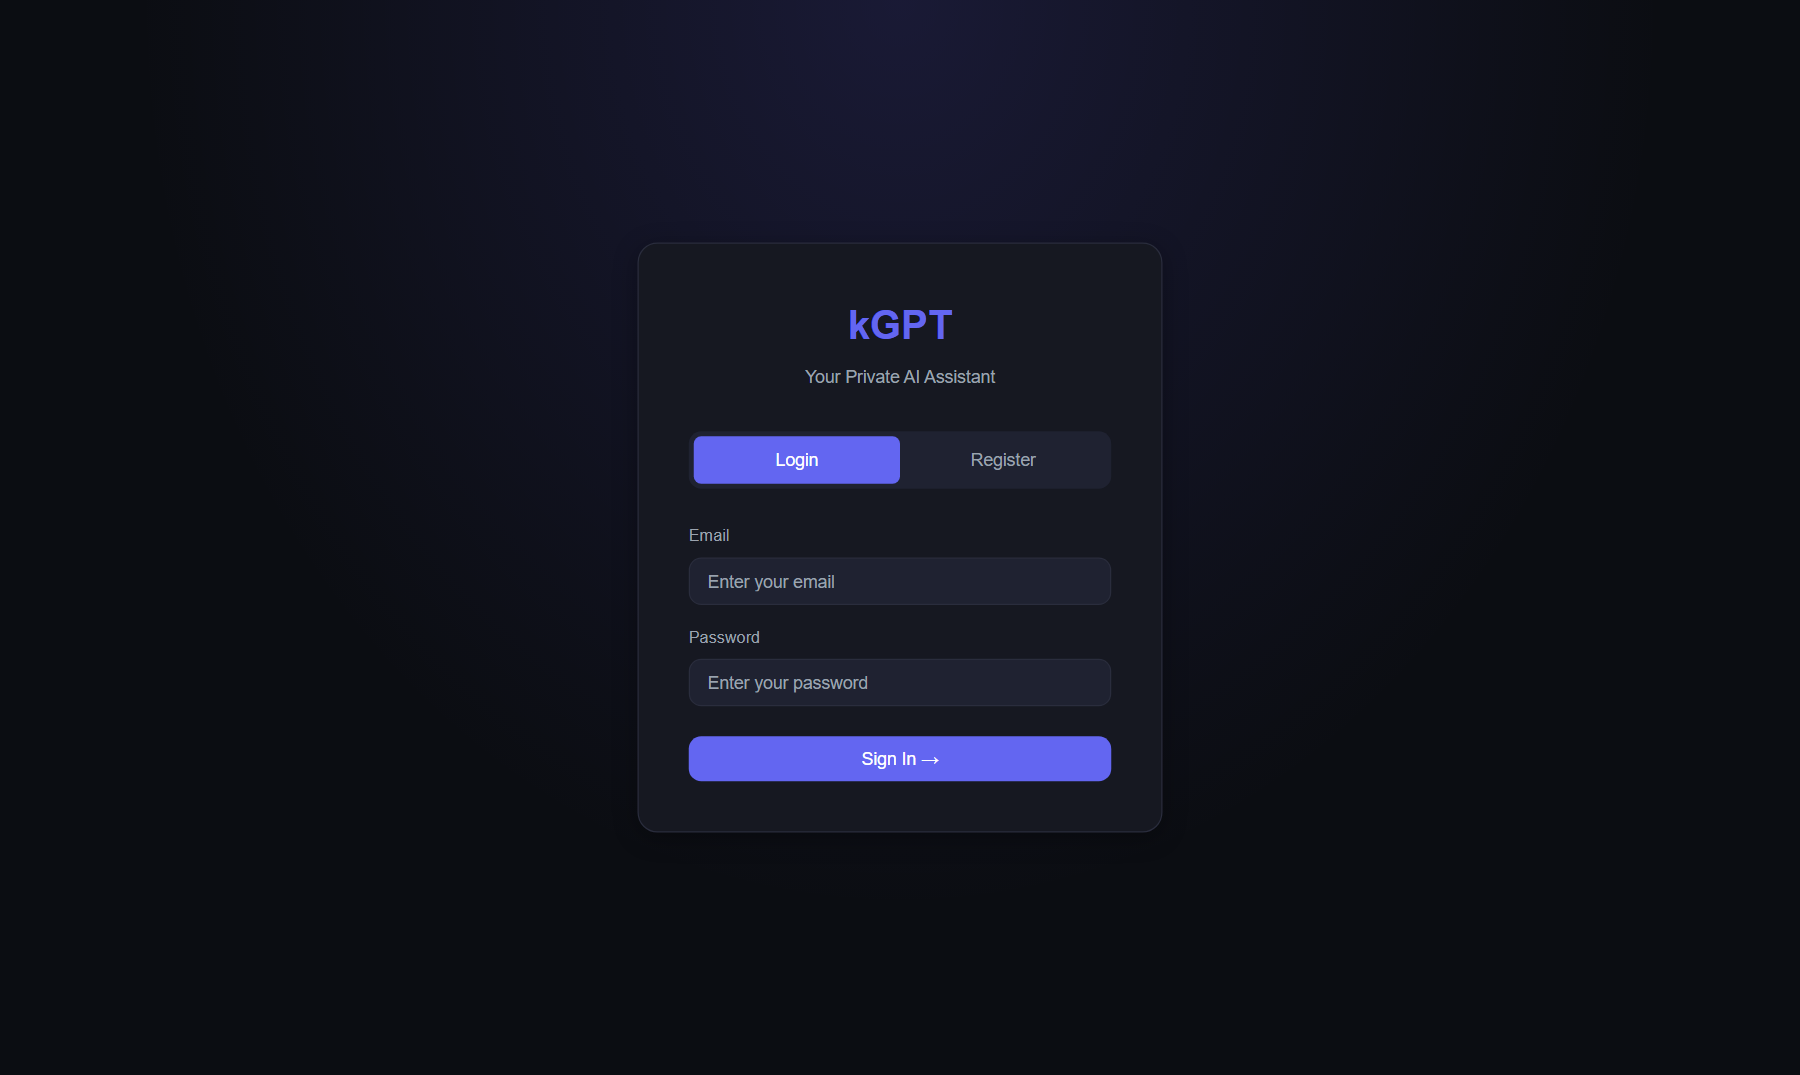
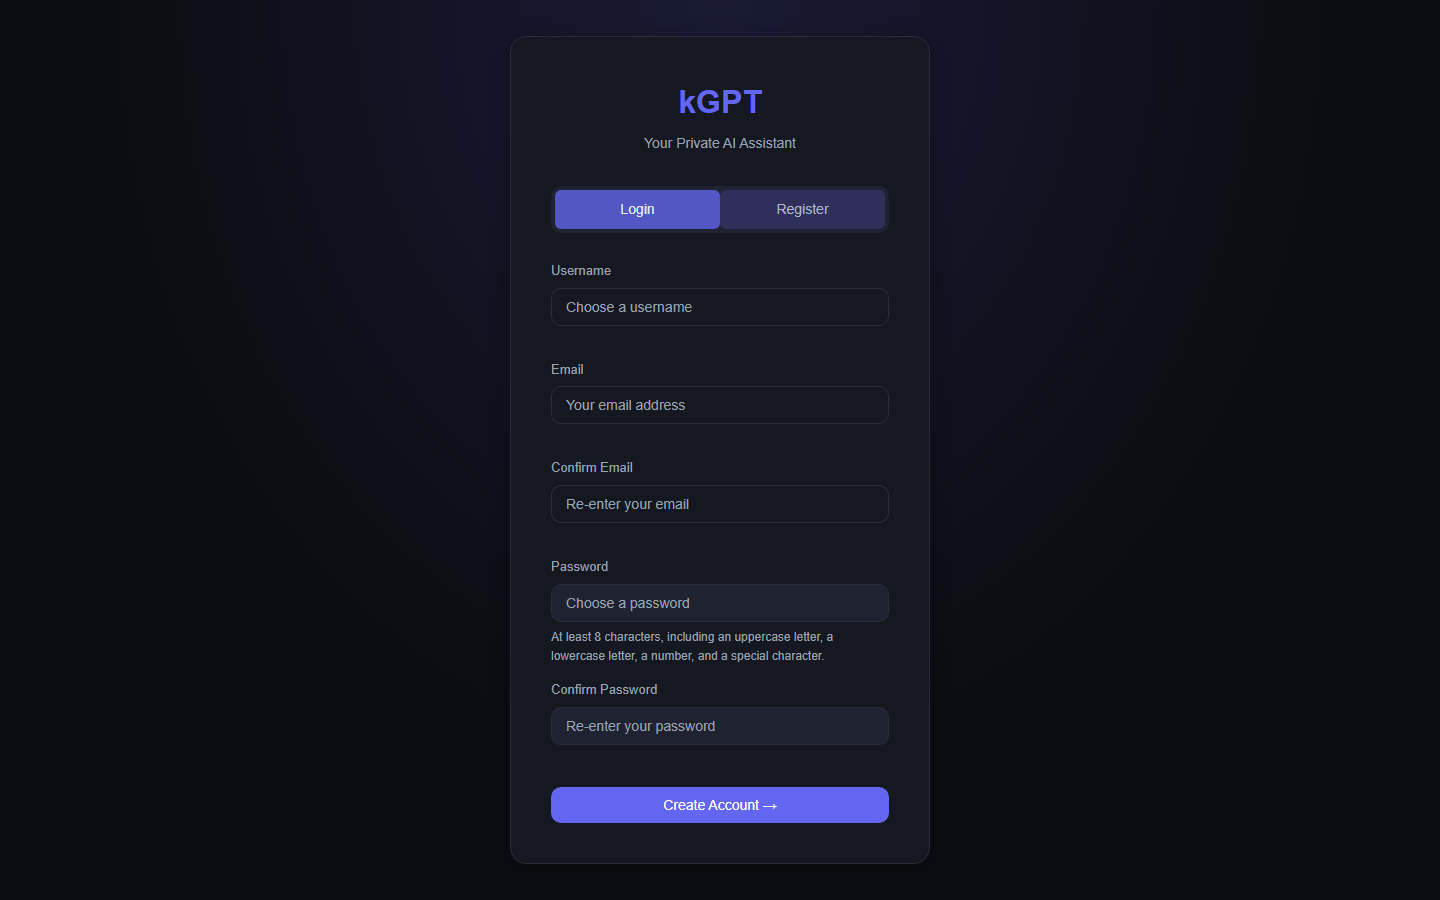
docs: refresh README for RAG/memory/unified-upload + Oracle deploy, new screenshots
README was stale from before the AWS->Oracle migration and predated the whole
RAG/cross-conversation-memory build and upload unification -- still described
per-conversation raw file attachments, listed RAG as a roadmap item, and
referenced AWS EC2 + Gmail SMTP verification, none of which are true anymore.
Retook screenshots (real zrikdemo account, real chat exchange with a source
citation, real Documents tab) since the old ones were also stale/missing.

diff --git a/README.md b/README.md
@@ -2,8 +2,8 @@
   <h1 align="center">kGPT</h1>
   <p align="center"><strong>Your Private AI Assistant</strong></p>
   <p align="center">
-    A full-stack AI chat application with intelligent web-search routing, file understanding,
-    streaming responses, and per-user conversation management — designed and implemented from scratch with FastAPI and React.
+    A full-stack AI chat application with intelligent web-search routing, retrieval-augmented
+    document Q&amp;A, cross-conversation memory, and streaming responses — designed and implemented from scratch with FastAPI and React.
   </p>
   <p align="center">
     <a href="https://kgpt.zrik.tech">
@@ -18,8 +18,9 @@
     <img src="https://img.shields.io/badge/PostgreSQL-async-4169E1?style=flat&logo=postgresql&logoColor=white" alt="PostgreSQL">
     <img src="https://img.shields.io/badge/Gemini-LLM-4285F4?style=flat&logo=googlegemini&logoColor=white" alt="Gemini">
     <img src="https://img.shields.io/badge/Groq-fallback-F55036?style=flat" alt="Groq">
-    <img src="https://img.shields.io/badge/AWS-EC2-FF9900?style=flat&logo=amazonaws&logoColor=white" alt="AWS">
-    <img src="https://img.shields.io/badge/Docker-ready-2496ED?style=flat&logo=docker&logoColor=white" alt="Docker">
+    <img src="https://img.shields.io/badge/pgvector-RAG-336791?style=flat&logo=postgresql&logoColor=white" alt="pgvector">
+    <img src="https://img.shields.io/badge/sentence--transformers-local%20embeddings-FFD21E?style=flat&logo=huggingface&logoColor=white" alt="sentence-transformers">
+    <img src="https://img.shields.io/badge/Oracle%20Cloud-ARM-F80000?style=flat&logo=oracle&logoColor=white" alt="Oracle Cloud">
     <img src="https://img.shields.io/badge/License-MIT-yellow?style=flat" alt="License">
   </p>
 </p>
@@ -29,19 +30,17 @@
 <table>
   <tr>
     <td><img src="docs/screenshots/1-login.png" alt="Login page" width="100%"></td>
-    <td><img src="docs/screenshots/2-home.png" alt="Home — suggestion cards" width="100%"></td>
+    <td><img src="docs/screenshots/2-chat.png" alt="Chat with RAG source citation" width="100%"></td>
   </tr>
   <tr>
     <td align="center"><em>Clean login & register</em></td>
-    <td align="center"><em>Home with suggestion cards</em></td>
+    <td align="center"><em>Chat with a retrieval source citation badge</em></td>
   </tr>
   <tr>
-    <td><img src="docs/screenshots/3-web-search.png" alt="Web search result" width="100%"></td>
-    <td><img src="docs/screenshots/4-code.png" alt="Code rendering" width="100%"></td>
+    <td colspan="2"><img src="docs/screenshots/3-documents.png" alt="Documents tab" width="100%"></td>
   </tr>
   <tr>
-    <td align="center"><em>Intelligent web search — auto-routed</em></td>
-    <td align="center"><em>Syntax-highlighted code rendering</em></td>
+    <td colspan="2" align="center"><em>Documents tab — scoped uploads (this chat only, or every chat)</em></td>
   </tr>
 </table>
 
@@ -49,7 +48,7 @@
 
 ## Why I Built This
 
-kGPT was built to explore production-ready AI application development end-to-end. The project focuses on intelligent LLM response streaming, automatic web-search routing, multi-file document understanding, secure authentication, and cloud deployment — rather than relying on pre-built chatbot frameworks. Every layer, from the SSE streaming protocol to the idempotent database migrations to the raw-HTTP LLM client, was designed and implemented from scratch (no LangChain, no chat SDKs).
+kGPT was built to explore production-ready AI application development end-to-end. The project focuses on intelligent LLM response streaming, automatic web-search routing, retrieval-augmented document Q&A, cross-conversation memory, and cloud deployment — rather than relying on pre-built chatbot frameworks. Every layer, from the SSE streaming protocol to the idempotent database migrations to the raw-HTTP LLM client to the chunking/embedding/retrieval pipeline, was designed and implemented from scratch (no LangChain, no chat SDKs — local `sentence-transformers` embeddings + pgvector similarity search instead).
 
 ---
 
@@ -60,13 +59,14 @@ kGPT was built to explore production-ready AI application development end-to-end
 | 1 | **Intelligent routing** | Every message is classified by the LLM as `general` (direct answer) or `web` (live search + summarise). No mode switching needed. |
 | 2 | **Streaming responses** | Token-by-token streaming over Server-Sent Events with a stop button to cancel mid-generation. |
 | 3 | **Real-time web search** | Live DuckDuckGo results fetched and summarised by the LLM when needed. |
-| 4 | **File understanding** | Attach up to 10 files per conversation (PDF, DOCX, JPG, PNG). Text extracted via PyMuPDF/python-docx; images described by Gemini vision (Groq vision fallback). Context injected into every subsequent message. |
-| 5 | **Conversation management** | Create, switch, rename, and delete chats. Session persists across page refreshes; fresh chat on login. |
-| 6 | **Rich message rendering** | Markdown, syntax-highlighted code blocks with copy buttons, LaTeX math (KaTeX). |
-| 7 | **Message actions** | Copy, edit & resend, regenerate last reply. |
-| 8 | **Auth & security** | JWT (PyJWT) + Argon2 password hashing (via `pwdlib`). JWT secret validated at startup. |
-| 9 | **Rate limiting** | 20 messages/min + 1000 messages/week per user — protects the upstream API. |
-| 10 | **HTTPS** | Nginx reverse proxy with a Let's Encrypt certificate (auto-renewing). |
+| 4 | **Unified document upload (RAG)** | One upload flow (chat paperclip or the Documents tab), with a scope choice: **this chat only** or **every conversation, forever**. PDF/DOCX/TXT/MD parsed directly; images described via Gemini/Groq vision. Every file is chunked, embedded locally (`sentence-transformers/all-MiniLM-L6-v2`, no API calls), and retrieved by pgvector cosine similarity — not dumped raw into the prompt. Answers cite which document(s) were used. |
+| 5 | **Cross-conversation memory** | Past exchanges are embedded and semantically recalled from *other* conversations too, so kGPT can reference something you told it days ago in an unrelated chat. |
+| 6 | **Conversation management** | Create, switch, rename, and delete chats. Session persists across page refreshes; fresh chat on login. |
+| 7 | **Rich message rendering** | Markdown, syntax-highlighted code blocks with copy buttons, LaTeX math (KaTeX). |
+| 8 | **Message actions** | Copy, edit & resend, regenerate last reply. |
+| 9 | **Auth & security** | JWT (PyJWT) + Argon2 password hashing (via `pwdlib`). JWT secret validated at startup. |
+| 10 | **Rate limiting** | 20 messages/min + 1000 messages/week per user — protects the upstream API. Uploads are separately capped at 15MB/file with bounded upload concurrency. |
+| 11 | **HTTPS** | Nginx reverse proxy with a Let's Encrypt certificate (auto-renewing). |
 
 ---
 
@@ -86,16 +86,16 @@ Try it live at **[kgpt.zrik.tech](https://kgpt.zrik.tech)**
 | **LLM (primary)** | Gemini API — `gemini-3.1-flash-lite` (chat + vision) |
 | **LLM (fallback)** | Groq API — `openai/gpt-oss-120b` (chat) + `qwen/qwen3.6-27b` (vision) |
 | **LLM client** | Raw `httpx` calls direct to the Groq/Gemini REST APIs — no LangChain, with multi-key rotation and automatic provider fallback |
-| **Database** | PostgreSQL + async SQLAlchemy (`asyncpg`) |
+| **Database** | PostgreSQL + async SQLAlchemy (`asyncpg`), `pgvector` extension with HNSW cosine indexes |
+| **RAG / memory** | `sentence-transformers/all-MiniLM-L6-v2` (local, 384-dim, no API calls) for embeddings; custom paragraph-aware chunker; direct pgvector similarity queries — no LangChain |
 | **Authentication** | JWT (PyJWT) + Argon2 (pwdlib) |
 | **Web search** | DuckDuckGo via `ddgs` |
 | **File extraction** | PyMuPDF (PDF), python-docx (DOCX), Gemini vision → Groq vision fallback (images) |
-| **Email** | Gmail SMTP (verification emails) |
 | **Frontend** | React 19 + TypeScript + Vite |
 | **Frontend libs** | react-markdown + remark-gfm/remark-math + rehype-katex/rehype-highlight, react-router-dom |
 | **Reverse proxy** | Nginx + Let's Encrypt |
-| **Deployment** | AWS EC2 (Ubuntu), systemd |
-| **Containerisation** | Docker + Docker Compose (app + Postgres) |
+| **Deployment** | Oracle Cloud (ARM Ampere, Always Free tier), systemd |
+| **Containerisation** | Docker + Docker Compose available for local dev (app + Postgres) |
 
 ---
 
@@ -110,7 +110,8 @@ Browser (React SPA)
        │
        ├─ Auth: JWT verified
        ├─ Rate limit: 20/min + 1000/week (in-memory bucket + Postgres count)
-       ├─ File context: all attachments prepended to prompt
+       ├─ Retrieval: pgvector similarity search over this chat's scoped docs +
+       │             every global doc, plus cross-conversation memory
        ├─ Provider: Gemini keys first, then Groq keys (candidate_providers())
        ├─ Router: LLM classifies → general or web
        │     ├─ general: LLM answers directly
@@ -121,11 +122,11 @@ Browser (React SPA)
 **Request flow:**
 1. Frontend sends `POST /api/chat/stream` with `{message, conversation_id}`
 2. Rate limits checked (in-memory per-minute + Postgres weekly count)
-3. File context preamble built from `conversation_attachments` table
+3. Query embedded locally and matched against document chunks (this chat's scoped uploads + every global upload) and past cross-conversation memory via pgvector cosine distance; relevant matches injected as labeled context
 4. LLM classifies message → `general` or `web`
 5. Web mode: `run_web_search()` fetches DuckDuckGo results, prepends to prompt
 6. LLM streams response token by token via SSE — raw `httpx` streaming call to whichever provider (Gemini, then Groq) is next in the fallback chain
-7. User message saved before streaming; assistant reply saved in `finally` block
+7. User message saved before streaming; assistant reply saved in `finally` block, along with which document(s) were cited as sources
 
 ---
 
@@ -171,10 +172,9 @@ Edit `.env`:
 | `GROQ_VISION_MODEL` | No | Default: `qwen/qwen3.6-27b` |
 | `GEMINI_MODEL` | No | Default: `gemini-3.1-flash-lite` |
 | `JWT_SECRET_KEY` | Yes | Random secret — `python -c "import secrets; print(secrets.token_hex(32))"` |
-| `GMAIL_USER` | Optional | Gmail address for verification emails |
-| `GMAIL_APP_PASSWORD` | Optional | Gmail App Password |
-| `APP_BASE_URL` | Optional | Public URL (for email links) |
 | `ALLOWED_ORIGINS` | No | Comma-separated CORS origins (`*` for local dev) |
+| `RAG_TOP_K` / `RAG_MAX_DISTANCE` | No | Document retrieval tuning — defaults `5` / `0.6` |
+| `MEMORY_TOP_K` / `MEMORY_MAX_DISTANCE` | No | Cross-conversation memory retrieval tuning — defaults `5` / `0.6` |
 
 ### 3. Build the frontend
 
@@ -216,38 +216,43 @@ docker compose down
 kgpt/
 ├── backend/
 │   ├── agent/
-│   │   ├── email.py             # Gmail SMTP verification emails
+│   │   ├── chunker.py           # Paragraph-aware text splitter for RAG (no langchain-text-splitters)
+│   │   ├── embeddings.py        # Lazy-loaded local sentence-transformers embedding singleton
 │   │   ├── file_extractor.py    # PDF / DOCX / image text extraction (Gemini vision → Groq vision fallback)
 │   │   ├── llm.py               # Raw-httpx LLM client — Gemini/Groq, multi-key rotation, streaming
+│   │   ├── retrieval.py         # pgvector document + cross-conversation memory retrieval
 │   │   └── tools.py             # DuckDuckGo web search
 │   ├── api/
-│   │   ├── auth.py              # JWT auth, register / login / verify (async)
+│   │   ├── auth.py              # JWT auth, register / login (async)
 │   │   ├── main.py              # FastAPI app, CORS, SPA static mount + catch-all
 │   │   ├── models/
-│   │   │   ├── chat.py          # Conversation, ChatMessage, ConversationAttachment models
+│   │   │   ├── chat.py          # Conversation, ChatMessage models
+│   │   │   ├── knowledge.py     # Document, DocumentChunk, MemoryEmbedding models
 │   │   │   └── user.py          # User SQLAlchemy model
 │   │   └── routes/
-│   │       └── chat.py          # Chat routing, SSE streaming, conversations CRUD, rate limiting (async)
+│   │       ├── chat.py          # Chat routing, SSE streaming, conversations CRUD, rate limiting (async)
+│   │       └── documents.py     # Unified upload/list/delete — chunk + embed + store, background-processed
 │   └── database/
 │       └── db.py                # Async engine/session, init_db, idempotent migrations (Postgres)
 ├── deploy/
 │   ├── kgpt.service             # systemd service
 │   ├── nginx.conf               # Nginx reverse proxy with SSE support
-│   └── setup.sh                 # EC2 bootstrap script
+│   └── setup.sh                 # bootstrap script
 ├── frontend/                    # React 19 + TypeScript + Vite
 │   ├── src/
 │   │   ├── api/client.ts        # Typed fetch wrapper
 │   │   ├── auth/AuthContext.tsx # Auth state/provider
-│   │   ├── components/          # Markdown, Artifact, Toast renderers
+│   │   ├── components/
+│   │   │   ├── DocumentPanel.tsx # Documents tab — upload, scope toggle, per-doc scope badges
+│   │   │   └── ...              # Markdown, Artifact, Toast renderers
 │   │   ├── pages/
-│   │   │   ├── Chat.tsx         # Sidebar, message thread, SSE streaming, file upload
-│   │   │   ├── Login.tsx        # Login + register
-│   │   │   └── Verify.tsx       # Email verification landing
+│   │   │   ├── Chat.tsx         # Sidebar, message thread, SSE streaming, scoped file upload
+│   │   │   └── Login.tsx        # Login + register
 │   │   └── App.tsx              # Router
 │   ├── dist/                    # Built SPA — served directly by FastAPI
 │   └── vite.config.ts
 ├── .env.example
-├── docker-compose.yml           # App + Postgres containers
+├── docker-compose.yml           # App + Postgres containers (local dev)
 ├── Dockerfile
 └── requirements.txt
 ```
@@ -262,10 +267,8 @@ All endpoints except auth require `Authorization: Bearer <token>`.
 
 | Method | Endpoint | Description |
 |--------|----------|-------------|
-| `POST` | `/api/auth/register` | Register; sends verification email |
+| `POST` | `/api/auth/register` | Register (verified at registration — no email step) |
 | `POST` | `/api/auth/login` | Login with email + password |
-| `POST` | `/api/auth/verify-email` | Verify email with token |
-| `POST` | `/api/auth/resend-verification` | Resend verification email |
 | `GET`  | `/api/auth/me` | Current user |
 
 ### Chat
@@ -278,9 +281,15 @@ All endpoints except auth require `Authorization: Bearer <token>`.
 | `POST`   | `/api/chat/conversations` | Create conversation |
 | `GET`    | `/api/chat/conversations/{id}/messages` | Get messages |
 | `PATCH`  | `/api/chat/conversations/{id}` | Rename conversation |
-| `DELETE` | `/api/chat/conversations/{id}` | Delete conversation |
-| `POST`   | `/api/chat/conversations/{id}/attachment` | Upload file (max 10 per conversation) |
-| `DELETE` | `/api/chat/conversations/{id}/attachment` | Remove all attachments |
+| `DELETE` | `/api/chat/conversations/{id}` | Delete conversation (cascades its scoped documents) |
+
+### Documents (RAG)
+
+| Method   | Endpoint | Description |
+|----------|----------|-------------|
+| `POST`   | `/api/documents/upload` | Upload a file (PDF/DOCX/TXT/MD/JPG/PNG), optional `conversation_id` to scope it to one chat instead of every chat |
+| `GET`    | `/api/documents` | List your documents, with scope + processing status |
+| `DELETE` | `/api/documents/{id}` | Delete a document (cascades its chunks) |
 
 ### Health
 
@@ -292,11 +301,11 @@ All endpoints except auth require `Authorization: Bearer <token>`.
 
 ## Deployment
 
-Deployed on **AWS EC2** (Ubuntu) with:
+Deployed on **Oracle Cloud** (ARM Ampere, Always Free tier) with:
 - **systemd** service (`deploy/kgpt.service`) — `Restart=always`
 - **Nginx** reverse proxy with SSE buffering disabled and `client_max_body_size 10M`
 - **Let's Encrypt** SSL via Certbot (auto-renewing)
-- **PostgreSQL** (Docker container on the same EC2 instance) — handles concurrent writers natively, no WAL-mode workaround needed
+- **PostgreSQL** running natively on the same instance (not containerized in production) with the `pgvector` extension enabled
 - Frontend is built (`npm run build`) and the resulting `frontend/dist/` served directly by FastAPI — no separate web server or Node process in production
 
 ---
@@ -304,7 +313,6 @@ Deployed on **AWS EC2** (Ubuntu) with:
 ## Roadmap
 
 - [ ] Multi-model support (OpenAI, local Ollama)
-- [ ] RAG with vector database for document Q&A
 - [ ] Conversation sharing via public links
 - [ ] Voice input / output
 - [ ] Redis-backed rate limiting for multi-worker accuracy
@@ -318,5 +326,5 @@ Deployed on **AWS EC2** (Ubuntu) with:
 ---
 
 <p align="center">
-  Designed and implemented from scratch with FastAPI · React · Gemini · Groq · Deployed on AWS EC2
+  Designed and implemented from scratch with FastAPI · React · Gemini · Groq · pgvector · Deployed on Oracle Cloud
 </p>